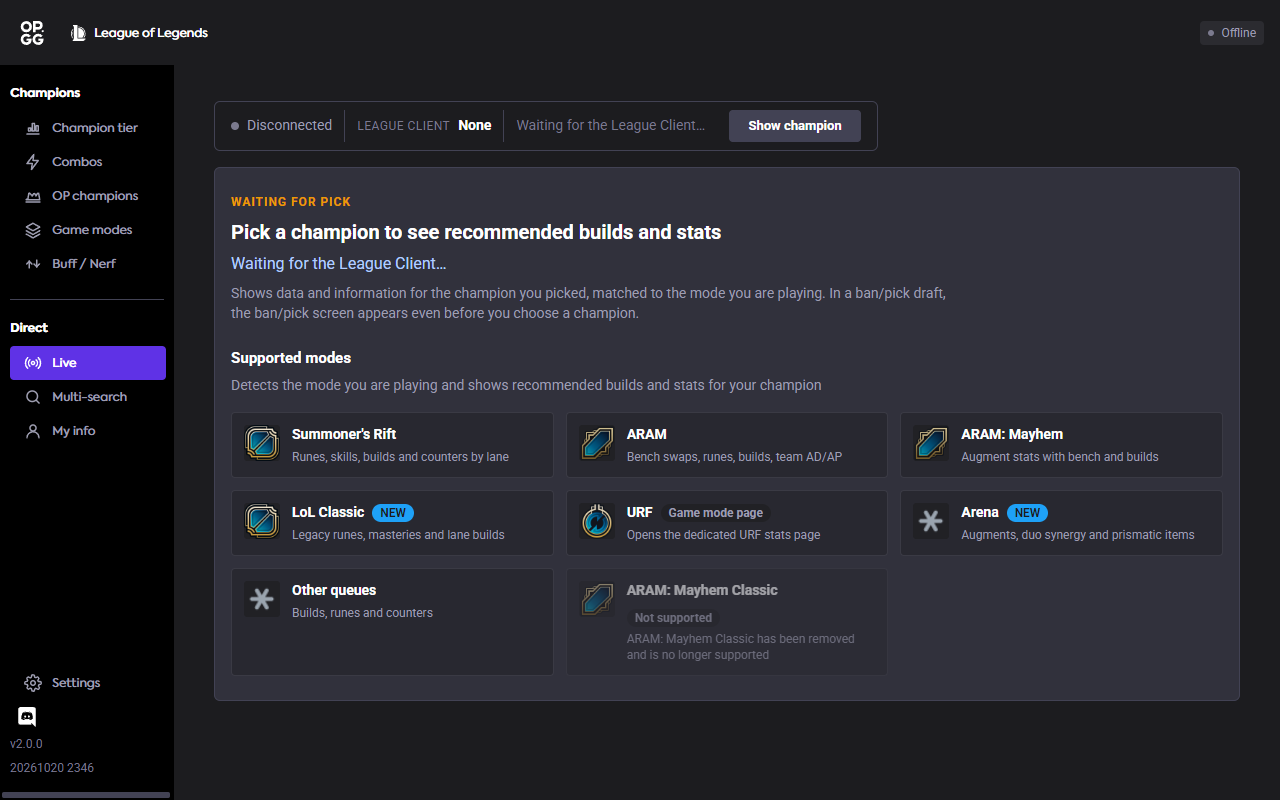
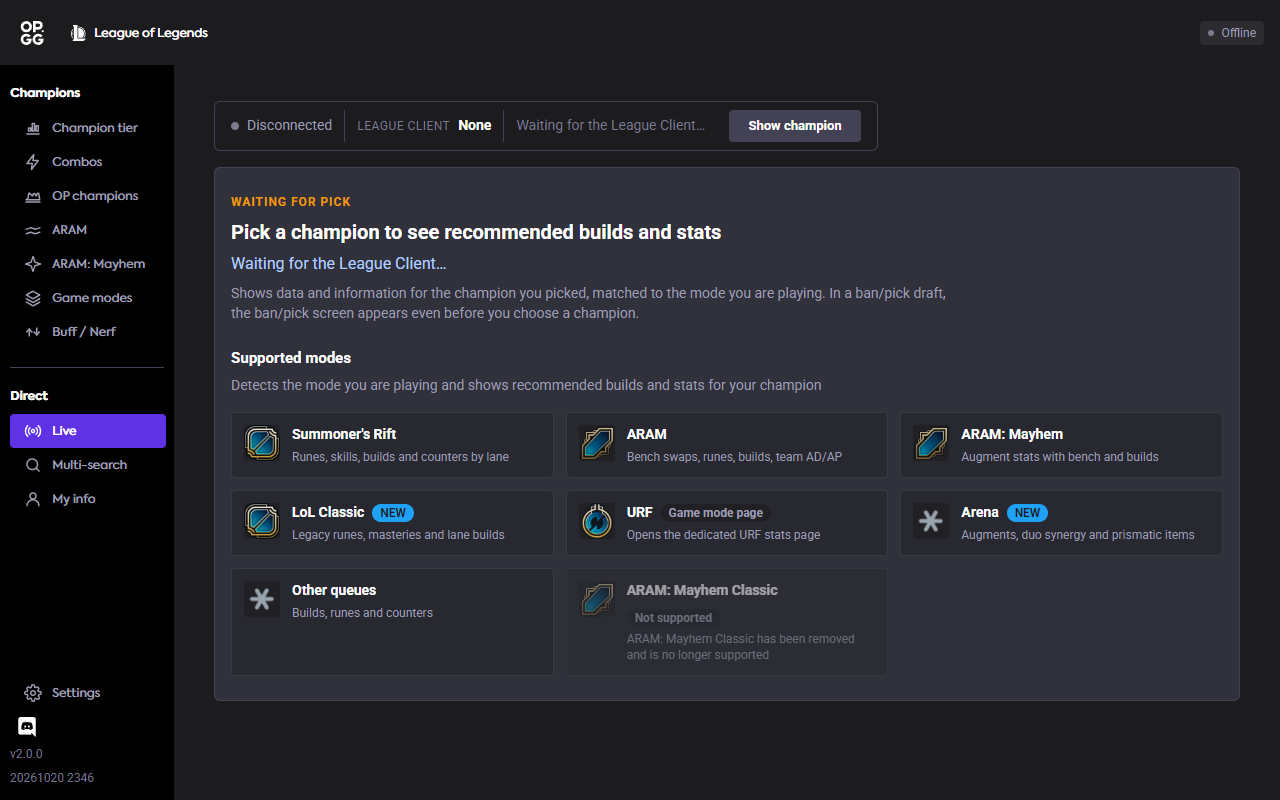
Fix the average statistics the arena and ARAM rows forward
The row builder referenced a variable that only exists in the detail builder,
so every tier-list request failed with "average is not defined" and the OP
Champions, Game modes, ARAM and ARAM: Mayhem screens all showed an error
state. tools/verify-pages.mjs now fails a page that renders its own error
state, which is how it was caught.

Changed region(s): [[0.0, 0.4062, 0.1562, 0.625], [0.0, 0.8438, 0.125, 1.0], [0.0, 0.2812, 0.125, 0.375]]

diff --git a/main/ipc/opgg.js b/main/ipc/opgg.js
@@ -495,6 +495,9 @@ function buildRow(entry, ctx) {
   const stats = (selected && selected.stats) || entry.average_stats || {};
   const tierData = stats.tier_data || (entry.average_stats && entry.average_stats.tier_data) || {};
 
+  /** The champion's league-wide statistics, independent of the lane. */
+  const averageStats = entry.average_stats || {};
+
   const rawTierNumber = toNumber(tierData.tier) !== null
     ? toNumber(tierData.tier)
     : (toNumber(stats.tier) !== null ? toNumber(stats.tier) : toNumber(entry.average_stats && entry.average_stats.tier));
@@ -547,14 +550,14 @@ function buildRow(entry, ctx) {
     // `play`, `total_place`, `first_place`). Forward the raw statistics so a
     // page can derive the rates the reference derives.
     averageStats: {
-      win: toNumber(average.win),
-      play: toNumber(average.play),
-      totalPlace: toNumber(average.total_place),
-      firstPlace: toNumber(average.first_place),
-      winRate: toRatio(average.win_rate),
-      pickRate: toRatio(average.pick_rate),
-      banRate: toRatio(average.ban_rate),
-      kda: toRatio(average.kda),
+      win: toNumber(averageStats.win),
+      play: toNumber(averageStats.play),
+      totalPlace: toNumber(averageStats.total_place),
+      firstPlace: toNumber(averageStats.first_place),
+      winRate: toRatio(averageStats.win_rate),
+      pickRate: toRatio(averageStats.pick_rate),
+      banRate: toRatio(averageStats.ban_rate),
+      kda: toRatio(averageStats.kda),
     },
     /** Retired / "Ultimate Spellbook" variants are flagged by the API. */
     isRip: Boolean(entry.is_rip),

diff --git a/docs/SPEC.md b/docs/SPEC.md
@@ -123,14 +123,20 @@ helpers (`api.champions()`, `api.championDetail()`, `api.lcuStatus()`, …).
 
 | # | Screen | Route id | Source of truth |
 | --- | --- | --- | --- |
-| 1 | **Champions tier list** — role tabs (All/Top/Jungle/Mid/ADC/Support), tier selector, region selector, queue selector, patch selector, 8-column sortable table (Rank, Champion, Tier, Role, Win rate, Pick rate, Ban rate, Weak against + Counter) | `champions` | `ChampionsV3.47962334.bundle.js`, `LoL.c4a25cd8.bundle.js` |
-| 2 | **Champion detail** — portrait, tier, win/pick/ban, runes, build, skills, counters, synergy | `champion-detail` | `ChampionStatistics.54719aad.bundle.js` |
-| 3 | **Live companion** — champ-select pick/ban board, ARAM bench cards, augment advisor, my profile | `live` | `LiveChampion3.8c6f1092.bundle.js`, `LiveOPChampionsV2.3c917b01.bundle.js` |
-| 4 | **Leaderboard** — ranked ladder by region/tier | `leaderboard` | `LoLHome.3dc65272.bundle.js` |
-| 5 | **Multisearch** — multi-summoner search + dodge radar | `multisearch` | `Multisearch.5a65d8b2.bundle.js` |
-| 6 | **My page** — profile + match history | `my-page` | `MyPage.3f0173b5.bundle.js` |
-| 7 | **Settings** — theme, locale, overlay options, automations | `settings` | `MainSettings.61f2dc02.bundle.js` |
-| 8 | **In-game overlay** — separate always-on-top window | `overlay` | `overlay.e6ae753e.js` |
+| 1 | **Champions tier list** - role tabs (Top/Jungle/Mid/ADC/Support), tier selector, region selector, patch selector, 7-column sortable div grid (Rank, Champion, Tier, Role, Win rate, Pick rate, Ban rate) | `champions` | `ChampionsV3.47962334.bundle.js`, `LoL.c4a25cd8.bundle.js` |
+| 2 | **Champion detail** - portrait, tier, win/pick/ban, runes, build, skills, counters, matchup, lane tips, combo videos, export rune build | `champion-detail` | `ChampionStatistics.54719aad.bundle.js` |
+| 3 | **Combos** - a champion's skill history across patches | `combos` | `desktop-api.op.gg/skill` |
+| 4 | **OP champions** - the tier-0 list | `op-champions` | `LiveOPChampionsV2.3c917b01.bundle.js` |
+| 5 | **ARAM tier list** - no lanes, no bans; the ARAM balance tag instead | `aram` | `lol-api-champion.op.gg/api/contents/aram-balance` |
+| 6 | **ARAM: Mayhem** - the augment-swarm tier table | `aram-mayhem` | `AramMayhem.03c382ad.bundle.js` |
+| 7 | **Game modes** - per-mode champion balance (ARAM / Arena / Nexus Blitz) | `modes` | `GameMode.7c113a60.bundle.js` |
+| 8 | **Buff / Nerf** - the latest patch's champion changes | `buff-nerf` | `BuffNerf.1da29145.bundle.js` |
+| 9 | **Live companion** - champ-select pick/ban board, ARAM bench cards, augment advisor, my profile | `live` | `LiveChampion3.8c6f1092.bundle.js` |
+| 10 | **Leaderboard** - ranked ladder by region/tier | `leaderboard` | `LoLHome.3dc65272.bundle.js` |
+| 11 | **Multisearch** - multi-summoner search + dodge radar | `multisearch` | `Multisearch.5a65d8b2.bundle.js` |
+| 12 | **My page** - profile + match history | `my-page` | `MyPage.3f0173b5.bundle.js` |
+| 13 | **Settings** - theme, locale, overlay options, automations | `settings` | `MainSettings.61f2dc02.bundle.js` |
+| 14 | **In-game overlay** - separate always-on-top window | `overlay` | `overlay.e6ae753e.js` |
 
 ---
 
